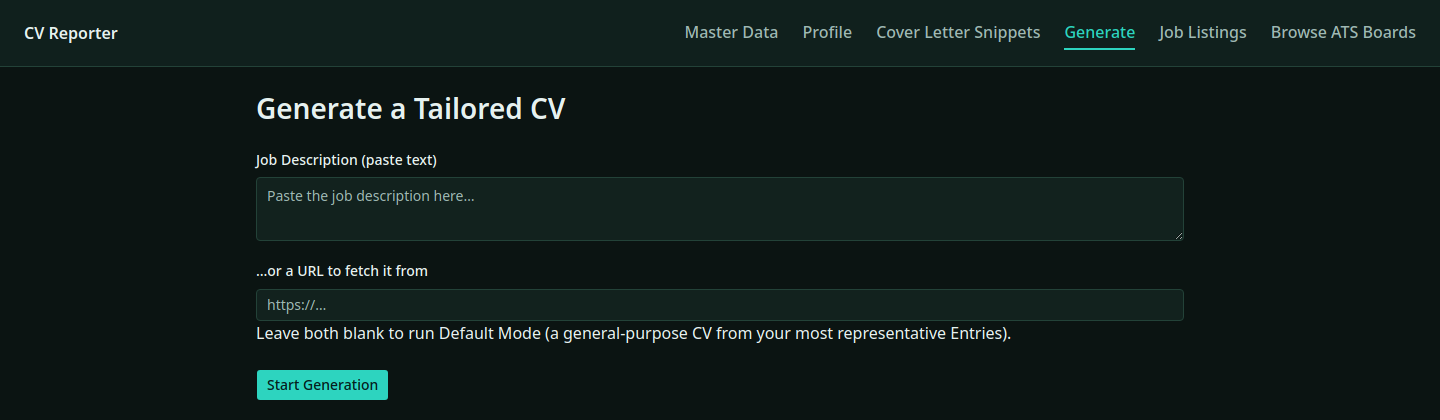
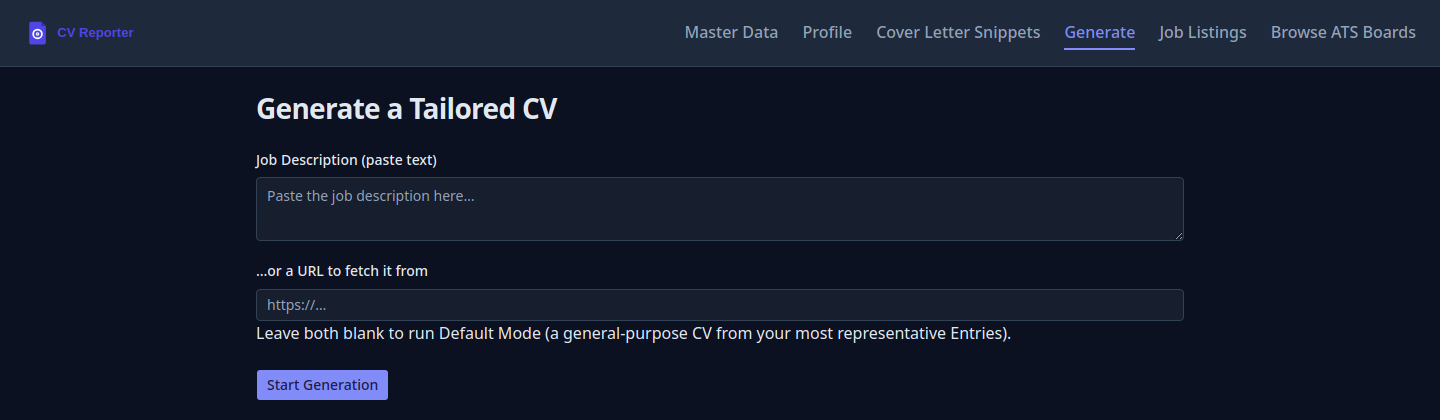
Rebrand frontend UI with the new brand identity (#32)
Apply the indigo/amber/slate palette and logo from brand/ across the
shadcn/ui theme (both light and dark), swap the nav's text wordmark
for the logo lockup, and tighten the heading weight/tracking scale to
match the wordmark's tone. Since every page already styles exclusively
through the shared theme tokens (no hardcoded colors anywhere), the
theme swap alone carries the rebrand through every existing page
without page-specific changes. Refresh the two README screenshots to
match.

Changed region(s): [[0.0, 0.0, 1.0, 0.1857], [0.1875, 0.2167, 0.4062, 0.3095], [0.1562, 0.8667, 0.2812, 0.9595]]

diff --git a/frontend/src/index.css b/frontend/src/index.css
@@ -61,48 +61,50 @@
 :root {
   color-scheme: light dark;
 
-  --background: #f7fafa;
-  --foreground: #0f172a;
+  /* Brand palette (see /brand/palette.md): primary #4F46E5 (indigo),
+     accent #F59E0B (amber, "selected/tailored"), ink #1E293B (slate). */
+  --background: #f8fafc;
+  --foreground: #1e293b;
   --card: #ffffff;
-  --card-foreground: #0f172a;
+  --card-foreground: #1e293b;
   --popover: #ffffff;
-  --popover-foreground: #0f172a;
-  --primary: #0d9488;
+  --popover-foreground: #1e293b;
+  --primary: #4f46e5;
   --primary-foreground: #ffffff;
-  --secondary: #eef4f3;
-  --secondary-foreground: #0f172a;
-  --muted: #eef4f3;
-  --muted-foreground: #475569;
-  --accent: #c2410c;
-  --accent-foreground: #ffffff;
+  --secondary: #eef2ff;
+  --secondary-foreground: #312e81;
+  --muted: #f1f5f9;
+  --muted-foreground: #64748b;
+  --accent: #f59e0b;
+  --accent-foreground: #1e293b;
   --destructive: #b91c1c;
   --destructive-foreground: #ffffff;
-  --border: #d7e3e1;
-  --input: #d7e3e1;
-  --ring: #0d9488;
+  --border: #e2e8f0;
+  --input: #e2e8f0;
+  --ring: #4f46e5;
 }
 
 @media (prefers-color-scheme: dark) {
   :root {
-    --background: #0b1412;
-    --foreground: #e6f1ef;
-    --card: #10201d;
-    --card-foreground: #e6f1ef;
-    --popover: #10201d;
-    --popover-foreground: #e6f1ef;
-    --primary: #2dd4bf;
-    --primary-foreground: #04201b;
-    --secondary: #16302b;
-    --secondary-foreground: #e6f1ef;
-    --muted: #16302b;
-    --muted-foreground: #9fb8b3;
-    --accent: #fb923c;
-    --accent-foreground: #04201b;
+    --background: #0b1120;
+    --foreground: #e2e8f0;
+    --card: #1e293b;
+    --card-foreground: #e2e8f0;
+    --popover: #1e293b;
+    --popover-foreground: #e2e8f0;
+    --primary: #818cf8;
+    --primary-foreground: #1e1b4b;
+    --secondary: #334155;
+    --secondary-foreground: #e2e8f0;
+    --muted: #334155;
+    --muted-foreground: #94a3b8;
+    --accent: #fbbf24;
+    --accent-foreground: #1e293b;
     --destructive: #f87171;
     --destructive-foreground: #2a0a0a;
-    --border: #234238;
-    --input: #234238;
-    --ring: #2dd4bf;
+    --border: #334155;
+    --input: #334155;
+    --ring: #818cf8;
   }
 }
 
@@ -124,11 +126,11 @@
   }
 
   h1 {
-    @apply text-[1.75rem] font-semibold mb-6;
+    @apply text-[1.75rem] font-bold tracking-tight mb-6;
   }
 
   h2 {
-    @apply text-xl font-semibold mt-8 mb-3;
+    @apply text-xl font-semibold tracking-tight mt-8 mb-3;
   }
 
   h3 {

diff --git a/frontend/src/components/AppNav.tsx b/frontend/src/components/AppNav.tsx
@@ -16,7 +16,9 @@ export default function AppNav() {
       className="flex flex-wrap items-center gap-x-6 gap-y-2 border-b border-border bg-card px-6 py-4"
       aria-label="Primary"
     >
-      <strong className="mr-auto font-semibold">CV Reporter</strong>
+      <NavLink to="/" className="mr-auto flex items-center">
+        <img src="/logo-lockup.svg" alt="CV Reporter" className="h-7 w-auto" />
+      </NavLink>
       {navItems.map((item) => (
         <NavLink
           key={item.to}

diff --git a/README.md b/README.md
@@ -120,4 +120,4 @@ From `frontend/`: `npm run dev` (served by the `frontend` service above inside D
 - [`CONTEXT.md`](CONTEXT.md) — domain vocabulary (ubiquitous language)
 - [`docs/adr/`](docs/adr/) — architecture decision records
 - [`extension/README.md`](extension/README.md) — how the LinkedIn capture extension works and how to load it
-- [`brand/palette.md`](brand/palette.md) — the color palette behind the logo, and the shared reference for the upcoming UI-rebrand
+- [`brand/palette.md`](brand/palette.md) — the color palette behind the logo, applied across the frontend's shadcn/ui theme
